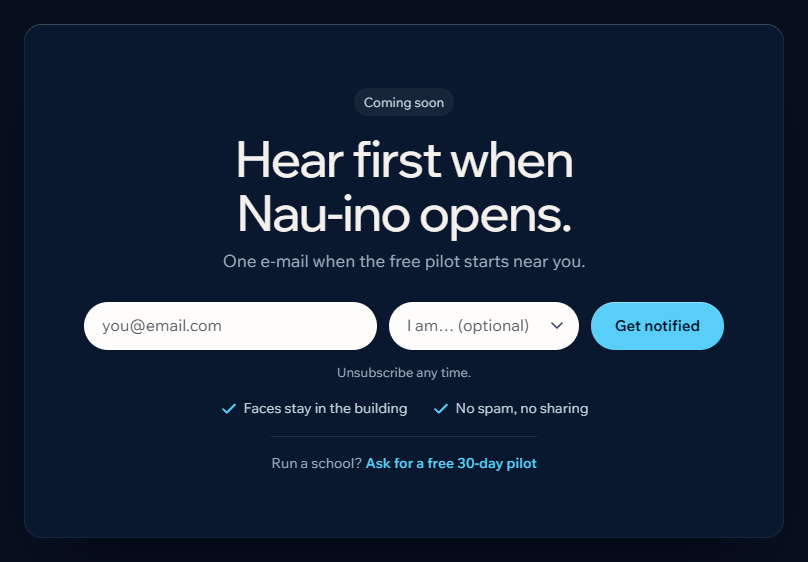
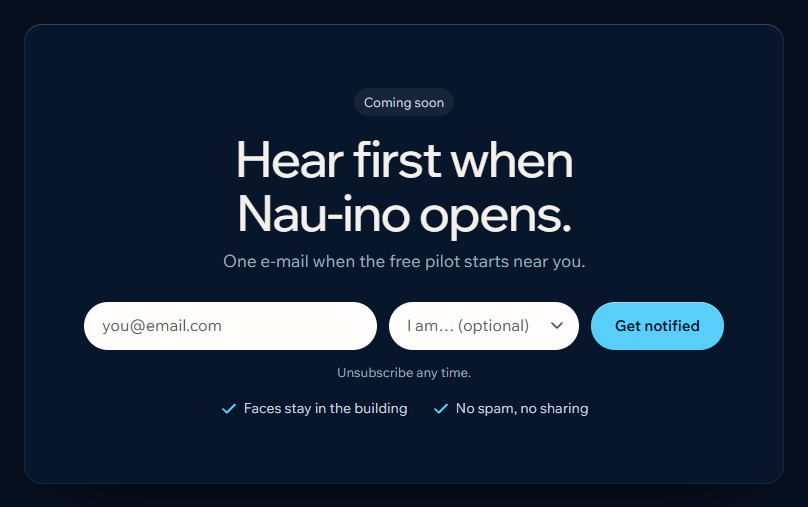
v1.27: "Get notified" is the only sign-up on the landing page again
- Landing: the e-mail + optional role "Get notified" card replaces the
  "Book a pilot" section (Google sign-in form) and the "Just want
  updates?" box; the "Ask for a free 30-day pilot" link is removed
- Hero, nav and home buttons say "Get notified" and go to #updates;
  an empty #pilot anchor keeps old links working
- M5 page: the pilot e-mail link is no longer listed; new screenshot

diff --git a/app/landing/page.tsx b/app/landing/page.tsx
@@ -6,7 +6,6 @@ import Link from "next/link";
 import { DemoReel } from "@/components/landing/demo-reel";
 import { HeroCopy } from "@/components/landing/hero-copy";
 import { NightLive } from "@/components/landing/night-live";
-import { PilotForm } from "@/components/landing/pilot-form";
 import { SpotGame } from "@/components/landing/spot-game";
 import { Tour } from "@/components/landing/tour";
 import { SurveyButton } from "@/components/landing/survey";
@@ -29,7 +28,7 @@ const text = Wix_Madefor_Text({ subsets: ["latin", "latin-ext"], weight: ["400",
 export const metadata: Metadata = pageMetadata({
   path: "/landing/",
   title: "Nau-ino · Know who walks into your school tonight",
-  description: "Nau-ino watches the cameras your school already has and flags every stranger. Free 30-day pilot on your own cameras.",
+  description: "Nau-ino watches the cameras your school already has and flags every stranger. Get notified when the pilot opens.",
   image: { url: `${siteUrl}/landing/campus-dusk-1080.jpg`, width: 1080, height: 720, alt: "A school campus at dusk" },
 });
 
@@ -54,11 +53,11 @@ export default function Landing() {
             <a href="#game">Game</a>
             <a href="#modes">Day and night</a>
             <a href="#privacy">Privacy</a>
-            <a href="#pilot">Pilot</a>
+            <a href="#updates">Updates</a>
           </nav>
           <SurveyButton />
-          <TrackedLink href="#pilot" event="cta_book_pilot_click" props={{ place: "nav" }} className="lp-btn lp-btn--sm lp-nav__cta">
-            Book a pilot
+          <TrackedLink href="#updates" event="cta_book_pilot_click" props={{ place: "nav" }} className="lp-btn lp-btn--sm lp-nav__cta">
+            Get notified
           </TrackedLink>
         </div>
       </header>
@@ -81,11 +80,11 @@ export default function Landing() {
             <div>
               <HeroCopy />
               <div className="lp-actions">
-                <TrackedLink href="#pilot" event="cta_book_pilot_click" props={{ place: "hero" }} className="lp-btn">
-                  Book a pilot
+                <TrackedLink href="#updates" event="cta_book_pilot_click" props={{ place: "hero" }} className="lp-btn">
+                  Get notified
                 </TrackedLink>
               </div>
-              <p className="lp-hero__note">Free for 30 days, on your own cameras.</p>
+              <p className="lp-hero__note">One e-mail when the free pilot opens.</p>
             </div>
 
             <NightLive />
@@ -161,13 +160,15 @@ export default function Landing() {
           </div>
         </section>
 
-        <section id="pilot" className="lp-section">
+        <section id="updates" className="lp-section">
+          {/* old links to #pilot still land here */}
+          <span id="pilot" aria-hidden="true" />
           <div className="lp-wrap">
             <div className="lp-glass lp-signup">
-              <span className="lp-chip">Free · 30 days</span>
-              <h2 className="lp-h2">Book a pilot.</h2>
-              <p className="lp-sub">Sign in with Google, tell us about your school, and we set it up with you on your own cameras within 2 working days.</p>
-              <PilotForm />
+              <span className="lp-chip">Coming soon</span>
+              <h2 className="lp-h2">Hear first when <span style={{ whiteSpace: "nowrap" }}>Nau-ino</span> opens.</h2>
+              <p className="lp-sub">One e-mail when the free pilot starts near you.</p>
+              <UpdatesForm />
               <ul className="lp-signup__facts">
                 <li>
                   <CheckIcon />
@@ -178,10 +179,6 @@ export default function Landing() {
                   No spam, no sharing
                 </li>
               </ul>
-              <div id="updates" className="lp-signup__updates">
-                <p>Just want updates?</p>
-                <UpdatesForm />
-              </div>
             </div>
           </div>
         </section>

diff --git a/components/site/hero.tsx b/components/site/hero.tsx
@@ -114,12 +114,12 @@ export function Hero() {
           <p className="max-w-xl text-lg leading-snug font-medium text-sky-100 sm:text-xl">{project.tagline}</p>
           <p className="text-muted-foreground max-w-xl text-sm leading-relaxed sm:text-[15px]">{project.description}</p>
           <TrackedLink
-            href={asset("/landing/#pilot")}
+            href={asset("/landing/#updates")}
             event="home_to_landing_click"
             props={{ place: "hero" }}
             className="neon-cta group mt-2 flex w-full max-w-xl items-center justify-between gap-4 rounded-2xl px-5 py-4 sm:px-6 sm:py-5"
           >
-            <span className="text-xl leading-tight font-semibold text-white sm:text-2xl">Book a pilot</span>
+            <span className="text-xl leading-tight font-semibold text-white sm:text-2xl">Get notified</span>
             <ArrowRight className="size-7 shrink-0 text-cyan-200 transition-transform group-hover:translate-x-1" aria-hidden />
           </TrackedLink>
           <div className="flex flex-wrap items-center gap-3 pt-2">

diff --git a/components/site/m5-tabs.tsx b/components/site/m5-tabs.tsx
@@ -64,7 +64,7 @@ function Leads() {
           </div>
         ))}
       </div>
-      <Shot s={{ src: "/campaign/landing-signup.png", width: 808, height: 562, alt: "The “Get notified” sign-up on the landing page" }} caption="Landing page: an e-mail field, an optional role and a “Get notified” button; school directors can ask for the free pilot by e-mail." />
+      <Shot s={{ src: "/campaign/landing-signup.png", width: 808, height: 507, alt: "The “Get notified” sign-up on the landing page" }} caption="Landing page: an e-mail field, an optional role and a “Get notified” button." />
       <div className="flex flex-wrap gap-2">
         <Link href="/landing/#updates" className="rounded-full bg-sky-600 px-3.5 py-1.5 text-sm font-medium text-white hover:bg-sky-500">
           Open the sign-up on the landing page

diff --git a/lib/m5.ts b/lib/m5.ts
@@ -25,13 +25,6 @@ export const m5Lead = {
       goal: "Newsletter: one e-mail when the pilot opens. One required field, so signing up takes seconds; the optional role tells us which leads are schools.",
     },
     {
-      name: "Ask for a pilot",
-      tool: "E-mail link",
-      where: "Under the sign-up: “Run a school? Ask for a free 30-day pilot”",
-      fields: "Opens an e-mail to the team",
-      goal: "School directors who want the free 30-day pilot write to us directly.",
-    },
-    {
       name: "Quick survey",
       tool: "Own collector (Google Sheet)",
       where: "Landing page, “Quick survey · 1 min” button (EN/RO)",

diff --git a/lib/versions.ts b/lib/versions.ts
@@ -11,6 +11,11 @@ export type SiteVersion = { version: string; date: string; changes: string[] };
 
 export const versions: SiteVersion[] = [
   {
+    version: "v1.27",
+    date: "2026-11-26",
+    changes: ["Landing: the \"Get notified\" sign-up (e-mail, optional role) is the only form again; hero, nav and home buttons say \"Get notified\"; the pilot form and the 30-day pilot link are removed"],
+  },
+  {
     version: "v1.26",
     date: "2026-11-26",
     changes: ["Home button and pilot section now say \"Book a pilot\"; the home button goes straight to the pilot form"],
